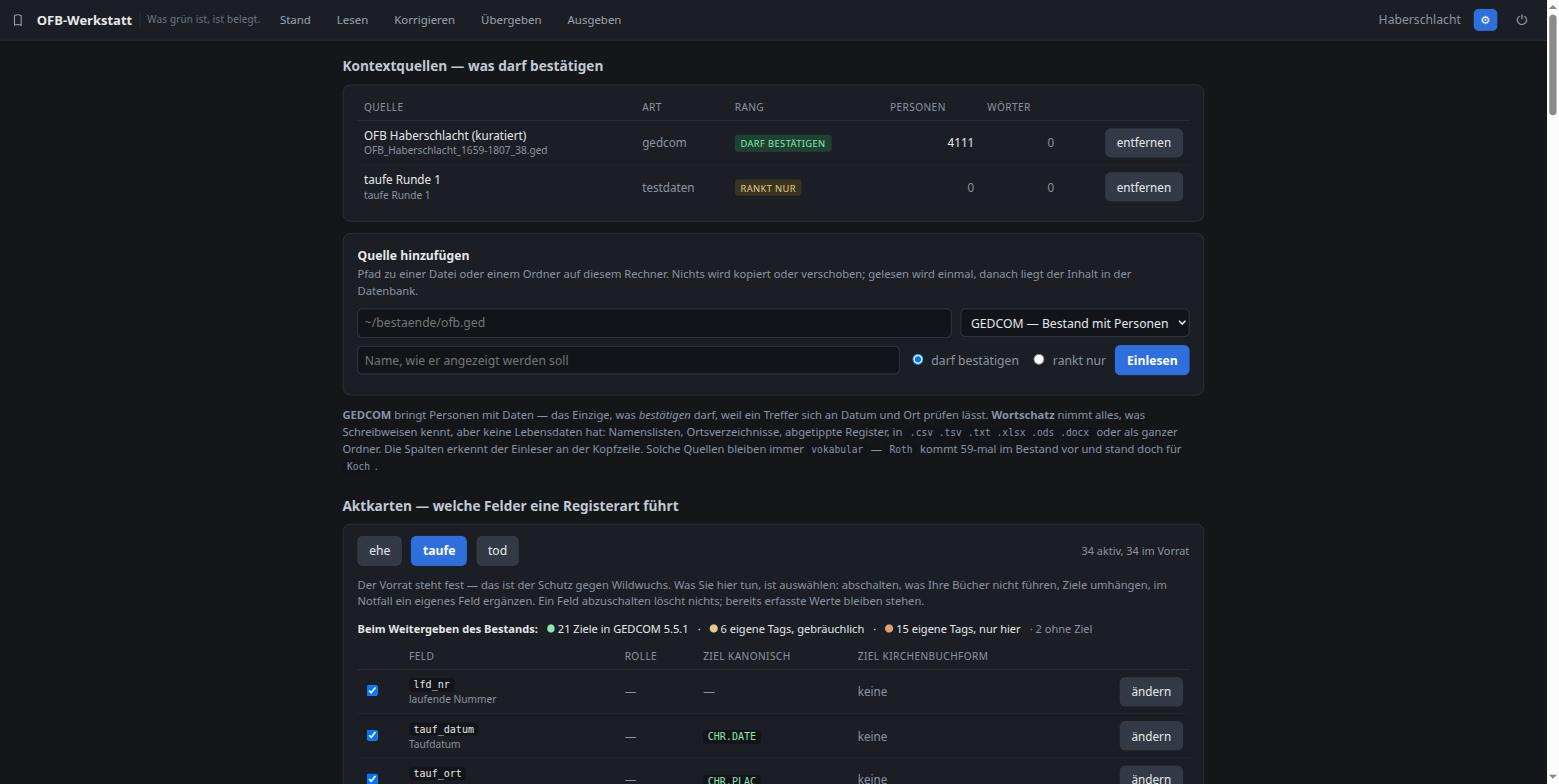
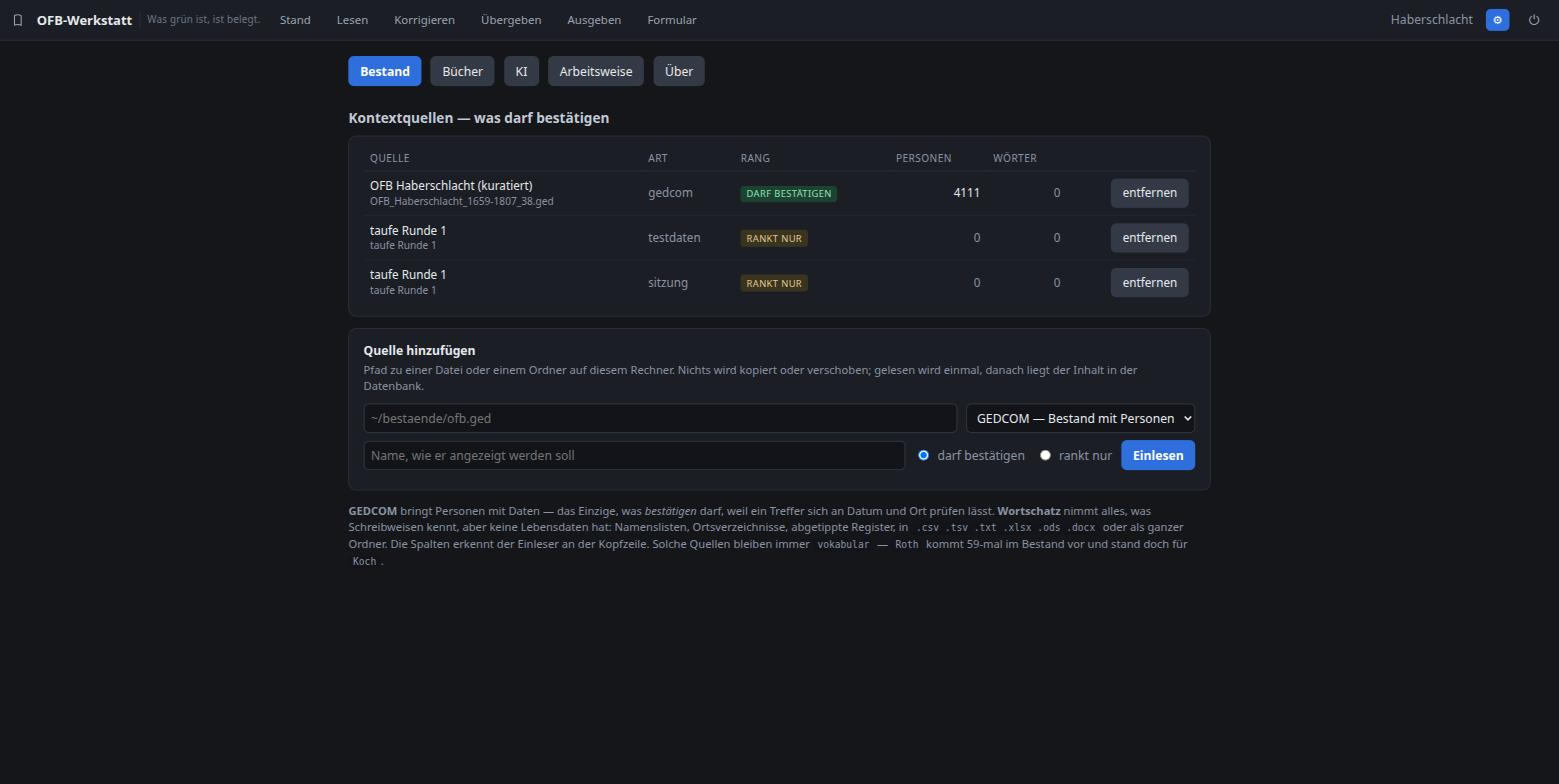
Screenshots erneuert, Seite Formular dazu
Die Bilder in der README zeigten die Oberflaeche vor dem Umbau: das
Zahnrad mit zehn Abschnitten untereinander, keine Formularseite. Alle
sieben neu aufgenommen.

Neu dabei ist "Formular" — Formularperioden aus den gedruckten
Spaltenkoepfen und die Aktkarte je Registerart. Auf dem Bild sind die
zwoelf Spalten des Eheregisters zu sehen und die Schreiber, die gratis
aus den erfassten Eintraegen fallen: M. Duvernoy (30 Eintraege), Maria
Anna Baur, Hebamme (1).

Dazu abgeschaltet, was fuer dieses Vorhaben nicht gebraucht wird: Paten
und taufender Geistlicher bei der Taufe, Proklamation, Zeugen und
trauender Geistlicher bei der Ehe, beerdigender bei den Toten. Die Felder
bleiben im Vorrat und lassen sich jederzeit wieder einschalten — nur der
Leseauftrag fragt sie nicht mehr ab.

diff --git a/README.md b/README.md
@@ -150,7 +150,16 @@ Byte für Byte die Vorlage:
 
 ![Ausgeben](doku/screenshots/ausgeben.jpg)
 
-Kontextquellen und Aktkarten in den Einstellungen:
+Die Seite **Formular** liest, was das Buch selbst über sich sagt: Aus den
+gedruckten Spaltenköpfen jeder fünften Seite entstehen die Formularperioden,
+darunter steht die Aktkarte mit den Feldern, die diese Registerart führt. Die
+Schreiber fallen gratis aus den erfassten Einträgen — der taufende Geistliche
+steht ja als eigene Spalte im Formular:
+
+![Formular](doku/screenshots/formular.jpg)
+
+Die Einstellungen liegen hinter fünf Reitern; hier die Kontextquellen mit
+ihrem Rang — nur was *bestätigen* darf, macht grün:
 
 ![Einstellungen](doku/screenshots/einstellungen.jpg)
 
